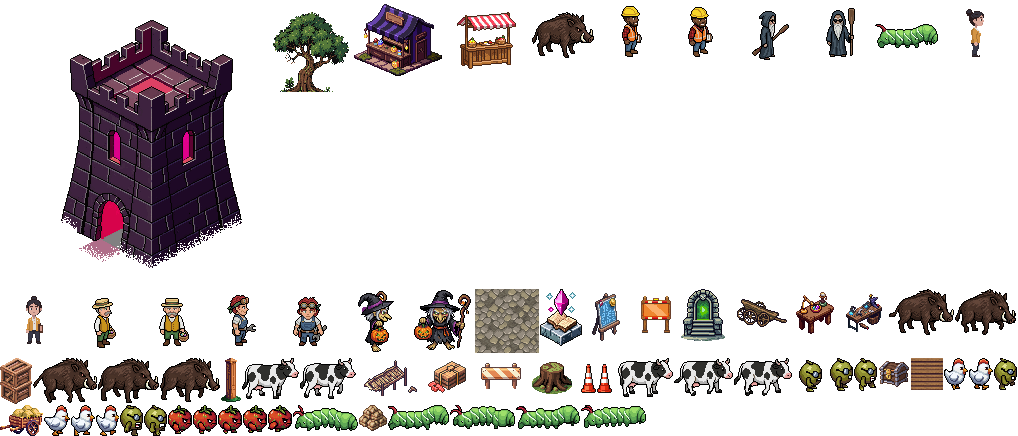
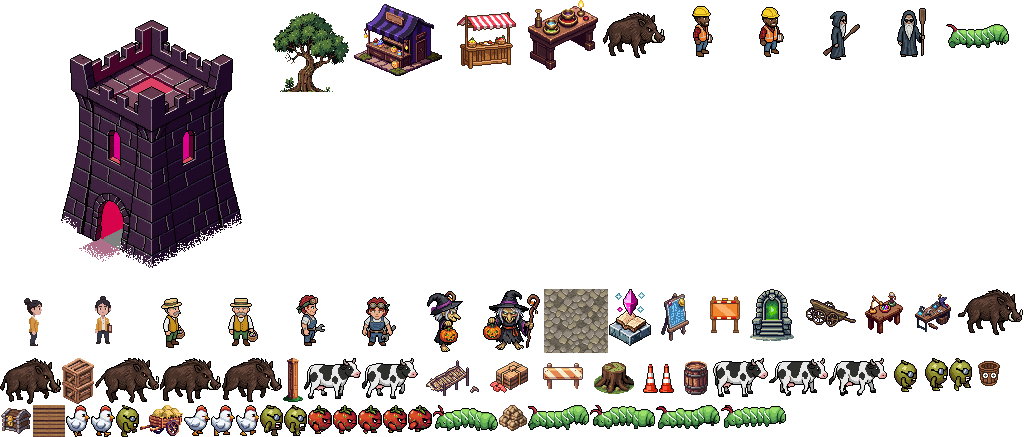
EastScape rules 353 (to ship): Magic Bags x3, the Yard lived in, lamp posts light at night, the Wild Bench's art, the gem bag's guide
- Magic Bags hold three times as much (300..7,500; the Shroud Satchel 3,000), matching the quivers.
- The Yard: a second round of barrels, crates, sacks, a quench bucket and a handcart in both courts, and two
  chickens in the south court. o_barrel and o_bucket join the Yard's art list: they were only in the cellar's
  and the closed areas', so every barrel in the courts had been drawn as nothing.
- Night: lamp posts cast a warm pool whenever the Yard is dark (the Long Night keeps it dark all event).
- The Wild Bench gets its picture (PixelLab 94fbfd64); the Wilderness sheet's budget is 135.
- Wiki: the 2026-09-29 Updates entry, and "The gem bag and the Gem Sorter" guide, hidden while HOLD.gems.
- While HOLD.gems, the 21 new gems are held items and the Mining gems keep their own words.
- Tests follow the tripled quivers and satchel, the Cards tab, and Nestor on the river's bank.
- eastscape-sfx.js: commits the archery/magic sounds that went live on 2026-09-25/26 and were never committed here.
VERSION 353, shared ?v=384, wiki 211.

diff --git a/v3/assets/js/eastscape-shared.js b/v3/assets/js/eastscape-shared.js
@@ -13,7 +13,7 @@
    ============================================================ */
 
 // bump with every change to this file: the server says which version it runs, and a page on another version reloads
-export const VERSION = 352;   /* (2026-09-28) run reports, the King's report, eggs 1/1500; the order and the 2X survive a restart */
+export const VERSION = 353;   /* (2026-09-28) run reports, the King's report, eggs 1/1500; the order and the 2X survive a restart */
 // Maps are 44 x 26 tiles (twice the old 22 x 13 each way, 2026-09-19). The screen shows a 22 x 13 window that follows
 // you (ZOOM in the page), so characters look the size they always did and there's four times the room.
 export const COLS = 44, ROWS = 26;
@@ -2581,6 +2581,17 @@ Object.assign(SCENES, {
       dress("crates", 41, 17, "Crates, stacked by the cart."); dress("barrel", 42, 15, "A barrel, going soft in the rain.");
       dress("handcart", 34, 8, "A handcart, parked."); dress("crate", 41, 8, "A crate. Somebody sat on it.");
       dress("barrel", 33, 12, "A barrel by the stairs."); dress("sacks", 40, 12, "Sacks, dumped and forgotten.");
+      /* (2026-09-29, the owner: "some barrels in the south and north court, maybe boxes, etc. items that make it feel more lived in")
+         A second round, against the rails and in the corners, never in front of a station: the north court's quench bucket sits
+         between the furnace and the anvil (both still reachable from the row below), the Tower's gate column (40-41) stays open,
+         and the south court's middle is left for the two chickens that scratch about in it (mobs, below). */
+      dress("barrel", 30, 7, "A barrel of charcoal."); dress("bucket", 36, 6, "The quench bucket. The water's gone black.");
+      dress("crates", 41, 10, "Crates of arrow shafts."); dress("barrel", 39, 11, "A barrel. Empty, by the sound.");
+      dress("crate", 30, 11, "A crate of scrap iron.");
+      /* (the treeline's canopy hangs over row 22 and column 42, so these stay above and inside it, where they can be seen) */
+      dress("crates", 32, 22, "Crates, waiting for the ferry."); dress("sacks", 33, 21, "Sacks of feed. The chickens know.");
+      dress("bucket", 33, 19, "A rain bucket, full to the brim."); dress("handcart", 40, 19, "A handcart with a wheel off.");
+      dress("barrel", 41, 20, "A barrel. It's been tapped."); dress("barrel", 41, 21, "A barrel. It hasn't, yet.");
       railing(upTo(29, 42).map((x) => [x, 23]), "h");   /* (2026-09-29) at the treeline: y19 until today */
       railing(upTo(30, 42).filter((x) => x !== 40 && x !== 41).map((x) => [x, 5]), "h");        // the north court's top rail, moved up from y7 with the court; (2026-09-25) open at 40-41, the Tower's gate
       railing(upTo(14, 22).map((y) => [29, y]), "v");   /* (2026-09-29) along the river's bank */
@@ -2660,7 +2671,11 @@ Object.assign(SCENES, {
       ["cow", 14, 6], ["cow", 11, 10], ["cow", 3, 2], ["cow", 13, 19], ["cow", 10, 16],
       ["rotten", 18, 4], ["rotten", 24, 6], ["rotten", 19, 8], ["rotten", 24, 9], ["olive", 16, 4], ["olive", 17, 10], ["olive", 20, 10],
       ["hornworm", 12, 5], ["hornworm", 15, 8], ["hornworm", 10, 9], ["hornworm", 11, 17],
-      ["boar", 5, 5], ["boar", 8, 17], ["boar", 4, 19], ["boar", 11, 21], ["boar", 6, 22]],
+      ["boar", 5, 5], ["boar", 8, 17], ["boar", 4, 19], ["boar", 11, 21], ["boar", 6, 22],
+      /* (2026-09-29, the owner: "add a mob or two in the new version of the yard in the court") two chickens loose in the south court,
+         at its empty south end: a mob wanders 3 across and 2 down from home, so they stay between the stalls and the railing and never
+         reach the road on row 14. At the END of the list, so every other monster keeps its id. */
+      ["chicken", 36, 20], ["chicken", 39, 21]],
     npcs: [   // (v108: Livia and Charon came over from the Forum, which is closed. Brutus sold gear here for a few hours on 2026-09-20; it is behind the Prize Counter now)
       { name: "Livia the Broker", art: "livia", x: 31, y: 16, still: true, quests: ["copperbell", "wheatrun", "emeraldedge"], opens: "exchange", reach: 2, hair: "#2a1a10", shirt: "#c89a2a", pants: "#3a2a1a", lines: ["Buying? Selling? Use the stall. I take 1%.", "It keeps selling while you sleep."] },
       { name: "Charon the Ferryman", art: "charon", x: 39, y: 16, still: true, quests: ["sardines", "ferry"], opens: "ferry", hair: "#e8e8e8", shirt: "#3a3a5a", pants: "#2a2a3a", lines: ["Islands. Everyone gets one. Nobody knows who's paying for them.", "The river's closed, so now it's a cart. Don't ask how a cart gets to an island. I don't.", "Plant something before you go back in there and lose your shirt. It grows while you're away.", "Wheat, ten minutes. Tomatoes, twenty. Both sell. Both cook."] }],
@@ -6198,7 +6213,7 @@ export const MAGIC = {
   arc: { share: 0.5 },                               // STORM: half the hit jumps to one other monster beside the target
   pierce: 0.3,                                       // VOID: ignores 30% of the target's defence
   sunHeal: 0.15,                                     // SUN: you heal 15% of the damage you deal
-  bagLvl: [1, 30, 50, 70, 90], bagCap: [100, 250, 500, 1000, 2500],
+  bagLvl: [1, 30, 50, 70, 90], bagCap: [300, 750, 1500, 3000, 7500],   // (2026-09-29, the owner: "increase the size of the magic bags to match archery") three times what they were, as the quivers went the same day
   tierAt: [70, 90],                                  // utility page tiers: I below Wizardry 70, II from 70, III from 90 (2026-09-26, the owner: the pages start at Wizardry 50 and run to 99, so the tiers moved up with them)
 };
 /* the elements. `base` is the Magic level of its first page and the Wizardry level to print it; Blast is +20, Surge +40 */
@@ -7576,7 +7591,7 @@ export const eventSourcesOf = (k) => {
 ITEMS.gallows_bow = { name: "Gallows Bow", short: "Bow", icon: "\u{1F3F9}", slot: "weapon", acc: 17, str: 9, launcher: { range: 6, ammo: "arrow" }, tier: "hallowed", forgeWith: ["candycorn", 400], event: true, fx: { tix: 0.06, rare: 0.10 }, req: { skill: "archery", lvl: 50 }, ex: "Cut from the gallows tree. One chop in ten thousand brings it down, during the Long Night only. Kills pay 6% more and rare drops come 10% easier." };
 ITEMS.lantern_quiver = { name: "Lantern Quiver", short: "Quiver", icon: "\u{1F383}", slot: "shield", pouch: { ammo: "arrow", cap: 1200 }, tier: "hallowed",   /* (2026-09-29) 400, tripled with the rest */ forgeWith: ["candycorn", 400], event: true, fx: { ammo: 0.25 }, req: { skill: "archery", lvl: 50 }, ex: "A carved pumpkin with a strap. One arrow in four flies back into it: a quarter of your shots spend nothing. The King drops it; Hexa sells it." };
 ITEMS.skull_wand = { name: "Skull Wand", short: "Wand", icon: "\u{1F480}", slot: "weapon", acc: 20, str: 8, launcher: { range: 5, ammo: "page", style: "magic" }, tier: "hallowed", forgeWith: ["candycorn", 400], event: true, fx: { leech: 0.10 }, req: { skill: "magic", lvl: 50 }, ex: "Somebody's, once. A tenth of every spell's damage comes back to you as health. The King drops it; Hexa sells it." };
-ITEMS.bag_shroud = { name: "Shroud Satchel", short: "Satchel", icon: "\u{1F45D}", slot: "shield", pouch: { ammo: "page", cap: 1000 },   /* (2026-09-27, the owner: "a noticeable increase in spells held") twice a level-50 bag: the Starweave's 1,000, twenty levels early */ tier: "hallowed", forgeWith: ["candycorn", 400], event: true, fx: { ammo: 0.25 }, req: { skill: "magic", lvl: 50 }, ex: "Sewn from a burial shroud, and deeper than it looks: it holds 1,000 pages, twice any other bag at its level. A quarter of your casts spend no page. The King drops it; Hexa sells it." };
+ITEMS.bag_shroud = { name: "Shroud Satchel", short: "Satchel", icon: "\u{1F45D}", slot: "shield", pouch: { ammo: "page", cap: 3000 },   /* (2026-09-27, the owner: "a noticeable increase in spells held") twice a level-50 bag: the Starweave's 3,000, twenty levels early (tripled 2026-09-29 with the rest) */ tier: "hallowed", forgeWith: ["candycorn", 400], event: true, fx: { ammo: 0.25 }, req: { skill: "magic", lvl: 50 }, ex: "Sewn from a burial shroud, and deeper than it looks: it holds 3,000 pages, twice any other bag at its level. A quarter of your casts spend no page. The King drops it; Hexa sells it." };
 ITEMS.drowned_boots = { name: "Drowned Boots", short: "Boots", icon: "\u{1F462}", slot: "boots", def: 6, tier: "hallowed", forgeWith: ["candycorn", 400], event: true, fx: { speed: 0.08, tix: 0.03 }, req: { skill: "melee", lvl: 50 }, ex: "They came up on a line. One cast in ten thousand, during the Long Night only. You move, swing and fish 8% faster, and kills pay 3% more." };
 ITEMS.coffin_ring = { name: "Coffin Ring", short: "Ring", icon: "\u{1F48D}", slot: "ring", acc: 8, str: 8, def: 8, tier: "hallowed", forgeWith: ["candycorn", 400], event: true, fx: { double: 0.10 }, req: { skill: "hp", lvl: 50 }, ex: "Coffin iron, with a coffin on it. One swing in ten thousand at any rock turns it up, during the Long Night only. One dig, cut or catch in ten comes up double." };
 /* the three legendaries: level 90, nova-grade numbers, one effect each that nothing else in the game has */
@@ -8831,9 +8846,13 @@ export const GEM_BANDS = [["Perfect", 10, 10], ["Brilliant", 7, 9], ["Fine", 4, 
 export const gemBand = (r) => GEM_BANDS.find(([, lo, hi]) => r >= lo && r <= hi)?.[0] || "Rough";
 /* the gems as items. Ruby, sapphire, topaz and opal already exist (mining finds them, wands and bags use them); the rest are new */
 for (const g of GEMSET.list) {
+  /* (2026-09-29) WHILE HOLD.gems IS ON the new stones are held (off the wiki, like any held item) and the four Mining gems keep their own
+     words: a live description must not send anybody to a Sorter that is not standing there. */
+  const isNew = !ITEMS[g.k];
   const it = (ITEMS[g.k] ||= { name: g.k === "tigerseye" ? "Tiger's eye" : g.k[0].toUpperCase() + g.k.slice(1), icon: "\u{1F48E}" });
+  if (HOLD.gems) { if (isNew) it.held = true; continue; }
   it.gem = g.k;
-  it.ex = `${it.ex ? it.ex.replace(/\s*Take it to the Gem Sorter.*$/, "") + " " : ""}Take it to the Gem Sorter in the Yard: it rolls a bonus from ${GEMSET.roll[0]}% to +${GEMSET.roll[1]}% (${g.does}), and then it goes on the ${g.where === "gear" ? "Combat" : "Skilling"} side of your gem bag.`;
+  it.ex =`${it.ex ? it.ex.replace(/\s*Take it to the Gem Sorter.*$/, "") + " " : ""}Take it to the Gem Sorter in the Yard: it rolls a bonus from ${GEMSET.roll[0]}% to +${GEMSET.roll[1]}% (${g.does}), and then it goes on the ${g.where === "gear" ? "Combat" : "Skilling"} side of your gem bag.`;
 }
 /* THE SORTER IS A FIXTURE in the Yard's north court, on the crafting side of the river (SCENES.workyard), whenever HOLD.gems is off. */
 /* (2026-09-28, the owner: "replace jewelcrafting") JEWELCRAFTING IS RETIRED: the Sorter is what gems are for now. Held everywhere, dev

diff --git a/eastscape.html b/eastscape.html
@@ -15,7 +15,7 @@
    Jewelcrafting) so they can be worked on. The rules read this flag when they load; the game server needs the same flag, which only the
    local start command sets (wrangler dev --define). On any other host this does nothing. */
 if (/^(localhost|127\.0\.0\.1)$/.test(location.hostname) && new URLSearchParams(location.search).get("open") === "1") globalThis.__ES_OPEN_ALL = true;</script>
-<link rel="modulepreload" href="/v3/assets/js/eastscape-shared.js?v=381">
+<link rel="modulepreload" href="/v3/assets/js/eastscape-shared.js?v=384">
 <link rel="modulepreload" href="/v3/assets/js/eastscape-sfx.js?v=17">
 <link rel="preconnect" href="https://play.eastcoin.vip">
 <!-- EastScape: the page only draws. Everything that happens is decided by the game server
@@ -1951,7 +1951,7 @@ b.who{cursor:pointer;text-decoration:underline dotted rgba(42,32,22,.45);text-un
   </aside>
 </main>
 <script type="module">
-import * as G from "/v3/assets/js/eastscape-shared.js?v=381";
+import * as G from "/v3/assets/js/eastscape-shared.js?v=384";
 // the wiki's words (guides, the update log) are 13 KB nobody needs until they open the wiki: fetched on first open
 let WK = { GUIDES: [], UPDATES: [{ date: "", title: "Loading…", items: [] }], SKILL_GUIDE: {}, stub: true };
 /* (2026-09-25) THE WIKI PULLS THE CLOSED AREAS' RULES IN WITH IT. The Crypt, the Pyramid and the Tower merge
@@ -1960,7 +1960,7 @@ let WK = { GUIDES: [], UPDATES: [{ date: "", title: "Loading…", items: [] }], 
    A reference book that is only correct once you have already been everywhere is not much of a reference.
    Failures are swallowed: an unreachable dungeon file should cost the reader a line, not the whole wiki. */
 const loadWiki = () => (loadWiki.p ||= Promise.all([
-  import("/v3/assets/js/eastscape-wiki.js?v=210").then((m) => { WK = m; }),
+  import("/v3/assets/js/eastscape-wiki.js?v=211").then((m) => { WK = m; }),
   cryptRules().catch(() => {}), pyramidRules().catch(() => {}), towerRules().catch(() => {}), countRules().catch(() => {}),
 ]).then(() => {}));
 import * as SFX from "/v3/assets/js/eastscape-sfx.js?v=17";
@@ -2663,7 +2663,7 @@ function registerArt(k, im) {   // `im` is a loaded Image, or a canvas the page 
    fetches the sheet ONCE, cuts every picture in it into its own small canvas and registers them all, so the rest of the page
    never knows. A picture in no sheet, or whose sheet won't load, is fetched by itself exactly as before (loadOne), so new art
    works before it is packed. PACKS_V is packs.json's ?v= and is bumped by the pack tool, never by hand. */
-const PACKS_V = 138;
+const PACKS_V = 139;
 const PACK_DIR = "/v3/assets/img/glad/packs/", packOf = new Map(), packJobs = new Map(); let PACKS = null;
 const packsReady = fetch(`${PACK_DIR}packs.json?v=${PACKS_V}`).then((r) => (r.ok ? r.json() : null)).then((j) => { if (!j || typeof j !== "object") return; PACKS = j; for (const [name, p] of Object.entries(j)) for (const k of Object.keys(p.keys || {})) if (!packOf.has(k)) packOf.set(k, name); }).catch(() => { /* no sheets: every picture comes on its own */ });
 const loadPack = (name) => packJobs.get(name) || packJobs.set(name, new Promise((res) => {
@@ -2738,6 +2738,9 @@ const AREA_ART = {
        from 154 to 162. t_brick stays core, because the islands are paved too. o_crate and o_barrel are the ones
        that already existed — the market reuses them rather than drawing its own. */
     "o_fencepost", "o_crates", "o_sacks", "o_handcart",
+    /* (2026-09-29) and the barrel and the bucket, which went into the cellar's list (and the closed areas') and so never loaded in the
+       Yard at all: its barrels had been drawn as nothing since. An area's sheet is whole, so naming them here too costs one copy each. */
+    "o_barrel", "o_bucket",
     /* (v114/v115) the walk cycles and idle breaths of the six that live here: loaded with the Yard, not at login */
     ...["chicken", "cow", "rotten", "olive", "hornworm", "boar"].flatMap((k) => [...[1, 2, 3, 4].map((i) => `${k}_w${i}`), `${k}_i2`])],   /* (v108: Charon, his cart and the Crypt's stairs came over from the Forum) */   // (monsters and a pond in every scene since 2026-09-20: the rocks', the trees' and the stations' pictures are no longer asked for out here)
   /* v68: the six bands. The Mire wears the Gloam's ground, the Thunderhead wears Cloudreach's; each list is that scene's monsters and nothing it doesn't draw */
@@ -4656,6 +4659,13 @@ function frame() {
     for (const o of Z.objs) if (o.t === "jack" || o.t === "ghostlantern") {
       const cx = o.x * T + T / 2, cy = o.y * T + T / 2, r = o.t === "jack" ? T * 1.7 : T * 1.4, c = o.t === "jack" ? "255,150,40" : "120,255,220";
       const gr = lc.createRadialGradient(cx, cy, 1, cx, cy, r); gr.addColorStop(0, `rgba(${c},${night ? 0.38 : 0.16})`); gr.addColorStop(1, `rgba(${c},0)`);
+      lc.fillStyle = gr; lc.fillRect(cx - r, cy - r, r * 2, r * 2);
+    }
+    /* (2026-09-29, the owner: "make sure night mode ... is still enabled in the yard") and the lamp posts do what their hover says, "it
+       comes on when the light goes": a warm pool from the lamp head, which sits most of a tile above the post's foot. Dark only. */
+    if (night) for (const o of Z.objs) if (o.t === "lamppost") {
+      const cx = o.x * T + T / 2, cy = o.y * T - T * 0.35, r = T * 2.1;
+      const gr = lc.createRadialGradient(cx, cy, 1, cx, cy, r); gr.addColorStop(0, "rgba(255,214,130,.34)"); gr.addColorStop(0.45, "rgba(255,190,100,.12)"); gr.addColorStop(1, "rgba(255,190,100,0)");
       lc.fillStyle = gr; lc.fillRect(cx - r, cy - r, r * 2, r * 2);
     }
   }
@@ -6793,12 +6803,12 @@ const mico = (k, px = 26) => `<img class="mico" style="height:${px}px" src="${AR
    and Fungiculture guides went live without their g_ icons, the Guides list requested g_breeding.png?v=1 and the edge now holds the
    site's HTML under that URL for a year. A picture added after its page shipped starts at 2 here. */
 const UI_V = { g_breeding: 2, g_fungiculture: 2 };
-const uico = (k) => { if (k === "g_jewelcrafting") k = "g_gems";   /* (2026-09-28) the skill has no guide picture of its own: it borrows the gems */
+const uico = (k) => { if (k === "g_jewelcrafting" || k === "g_gembag") k = "g_gems";   /* (2026-09-28) the skill has no guide picture of its own: it borrows the gems */
   return `<img class="ico wico" src="${UIA}${k}.png?v=${UI_V[k] || 1}" alt="" loading="lazy" decoding="async">`; };
 const nico = (name) => { const a = WIKI.npcs[name]?.art || NPC_ART[name]; return a ? `<img class="ico nico" src="${ART}${a}_south.png?v=${ART_V}" alt="" loading="lazy" decoding="async">` : "🧑"; };
 function wikiPages() {
   const pages = [{ route: "home", title: "Home", icon: uico("g_home"), group: "" }, { route: "updates", title: "Updates", icon: uico("g_updates"), group: "" }];
-  for (const g of WK.GUIDES) { if (g.id === "thieving" && !G.THIEF.live) continue; if (g.id === "longnight" && !G.hwOn()) continue; if (g.id === "jewelcrafting" && G.HOLD.jewel) continue;   /* (2026-09-27) the Long Night's guide appears with the season */ pages.push({ route: `guides/${g.id}`, title: g.title, icon: uico(`g_${g.id}`), group: "Guides", cat: g.cat || "More" }); }   /* (2026-09-23) the Thieving guide rides THIEF.live with the rest of the skill; it is written and ready, it just must not be readable before the guild opens */
+  for (const g of WK.GUIDES) { if (g.id === "thieving" && !G.THIEF.live) continue; if (g.id === "longnight" && !G.hwOn()) continue; if (g.id === "jewelcrafting" && G.HOLD.jewel) continue; if (g.id === "gembag" && G.HOLD.gems) continue;   /* (2026-09-29) the gem bag's guide opens with gems */   /* (2026-09-27) the Long Night's guide appears with the season */ pages.push({ route: `guides/${g.id}`, title: g.title, icon: uico(`g_${g.id}`), group: "Guides", cat: g.cat || "More" }); }   /* (2026-09-23) the Thieving guide rides THIEF.live with the rest of the skill; it is written and ready, it just must not be readable before the guild opens */
   /* (2026-09-22) PETS ARE THEIR OWN CATEGORY, not a line in Guides: five things with stats, a drop rate and a
      picture each is a category, and the guide alone made them look like a footnote. Built from G.PETS, so a sixth
      pet appears here without anyone remembering to add it. */

diff --git a/v3/assets/js/eastscape-wiki.js b/v3/assets/js/eastscape-wiki.js
@@ -882,6 +882,30 @@ export const GUIDES = [
         <p><b>More gems:</b> the <b>${H.esc(G.CHARMS.stonesense.name)}</b> page (Wizardry ${G.CHARMS.stonesense.lvl}) makes them turn up ${G.CHARMS.stonesense.vals.join("/")}% more often by tier${boost.length ? `, and so does ${boost.join(" or ")} following you` : ""}. A rock gives the same chance on every ore, so a vein that never runs dry is the best place to stand.</p>
         ${G.GEMS.map(gem).join("")}`;
     } },
+  /* (2026-09-29, the owner: "wiki needs updates for new gems and gem sorter etc as well") THE GEM BAG AND THE SORTER. Every number is read
+     from GEMSET, gemOdds and GEM_BANDS, so a retune of the odds or the prices cannot leave this page behind. The page hides it while
+     HOLD.gems is on (wikiPages in eastscape.html), like the other held systems. */
+  { id: "gembag", title: "The gem bag and the Gem Sorter", icon: "\u{1F48E}", cat: "Going further",
+    body: (G, H) => {
+      const S = G.GEMSET, nm = (k) => H.wl(`items/${k}`, `${H.ico(k)} ${H.esc(H.ITEMS[k]?.name || k)}`), tix = (n) => `${n.toLocaleString()} tickets`;
+      const odds = (lo, hi) => { let p = 0; for (let r = lo; r <= hi; r++) p += G.gemOdds(r); p *= 100; return p < 1 ? `${p.toFixed(1)}%` : `${Math.round(p)}%`; };
+      const sgn = (r) => `${r > 0 ? "+" : ""}${r}%`, side = (w) => S.list.filter((g) => g.where === w);
+      const row = (g) => `<tr><td>${nm(g.k)}</td><td>${H.esc(g.does)}</td><td>${g.skill ? H.esc(H.SKILLS?.[g.skill]?.name || g.skill) : "monsters of level " + S.dropLvl + "+"}</td></tr>`;
+      return `<p><b>Gems are small permanent bonuses you carry with you.</b> Find one, have the Gem Sorter roll it a bonus, and put it in your <b>gem bag</b>, which works wherever you are. Open the bag from the <b>Gems</b> button on your inventory; it pops open beside it.</p>
+        <h3>The gem bag</h3>
+        <p>Two sides of ${S.bag.max} settings each: <b>Combat</b> gems on one side, <b>Skilling</b> gems on the other, and a gem only fits its own side. ${S.bag.start === 1 ? "One setting on each side is open" : `${S.bag.start} settings on each side are open`} from the start; the rest open for tickets, each side on its own: ${S.bag.price.map(tix).join(", then ")}.</p>
+        <p>Only a <b>sorted</b> gem goes in. Taking one out gives it back <b>unsorted</b>, so changing your mind costs a roll. <b>Only the best ${S.perType} of any one gem count</b>: a third ruby adds nothing, so fill the bag with different stones.</p>
+        <h3>The Gem Sorter</h3>
+        <p>A jeweller's bench in the Yard's north court. Stand by it and it will <b>sort</b> a gem (roll its bonus) for <b>${tix(S.cost)}</b> a roll, <b>re-roll</b> a sorted one for the same, or <b>buy any gem back</b> for ${tix(S.sell)}, whatever its roll. A roll lands between <b>${sgn(S.roll[0])}</b> and <b>${sgn(S.roll[1])}</b>, and the higher it is, the rarer it is. A negative roll is exactly that much worse.</p>
+        <table class="tbl"><tr><th>Band</th><th>Roll</th><th>Chance</th></tr>${G.GEM_BANDS.map(([n, lo, hi]) => `<tr><td><b>${n}</b></td><td>${lo === hi ? sgn(lo) : `${sgn(lo)} to ${sgn(hi)}`}</td><td>${odds(lo, hi)}</td></tr>`).join("")}</table>
+        <p>A perfect ${sgn(S.roll[1])} is about <b>1 in ${Math.round(1 / G.gemOdds(S.roll[1]))}</b> rolls, and the room hears about it when somebody lands one.</p>
+        <h3>Finding gems</h3>
+        <p>From level <b>${S.dropLvl}</b> in a skill, every action has a 1 in ${Math.round(1 / S.drop).toLocaleString()} chance of turning up that skill's gem. Monsters of level ${S.dropLvl} or more drop a combat gem now and then, and a boss more often. Every gem found is unsorted; they trade and bank like anything else, and a sorted one keeps its roll when it changes hands.</p>
+        <h3>Combat gems</h3>
+        <table class="tbl"><tr><th>Gem</th><th>Does</th><th>From</th></tr>${side("gear").map(row).join("")}</table>
+        <h3>Skilling gems</h3>
+        <table class="tbl"><tr><th>Gem</th><th>Does</th><th>From</th></tr>${side("case").map(row).join("")}</table>`;
+    } },
   { id: "fletching", title: "Fletching and archery", icon: "\u{1F3F9}", cat: "Skills",
     body: (G, H) => {
       const rs = Object.values(G.RECIPES).filter((r) => r.skill === "fletching").sort((a, b) => a.lvl - b.lvl);
@@ -1056,6 +1080,20 @@ export const GUIDES = [
 ];
 
 export const UPDATES = [
+  {
+    date: "2026-09-29", title: "A river through the Yard, quivers and Magic Bags three times the size, and a round of fixes from the bug board",
+    items: [
+      "THE YARD, REDONE: a river runs down its middle. East of it are the two courts with every workbench, Livia, Charon and the road to the casino; west of it, every monster, Bronny and Sal. The road crosses on a plank bridge and is cobbled all the way west to the Carnival and north to the Gloam, with lamp posts along it that light up after dark. The courts are fuller too: barrels, crates, sacks, a quench bucket by the anvil, and two chickens loose in the south court.",
+      "QUIVERS AND MAGIC BAGS HOLD THREE TIMES AS MUCH: a rough quiver is 300 arrows and a Bogwood one 3,000; Magic Bags run from 300 to 7,500 pages, and the Shroud Satchel holds 3,000. Loading takes every stack of that arrow or page in your bag in one click.",
+      "THE WILD BENCH: fletching's own Nexus, in the Wilderness grove against the west rock. It fletches everything, and half as much again.",
+      "THE NEXUS, TONED DOWN: it prints one and a half times the pages (was twice) for a quarter more xp (was half as much again).",
+      "HOW MANY TO MAKE: every crafting window and the anvil ask how many first (1, 5, 10, 25 or All), and stop when that many are done.",
+      "BOM BUYS BOWS, QUIVERS, WANDS AND MAGIC BAGS now, which he used to turn away.",
+      "THE BANK takes 1, 5, 10, 25 or 99 at a time, and your stacks stay where they are while you work instead of shuffling.",
+      "OTHER PEOPLE'S GEAR: on someone's profile, hover a piece they are wearing to see it, and right-click it for its wiki page.",
+      "FIXES: you arrive where you meant to (the nearest open tile, never inside a wall), both ways across the Far Shore bridge; a refresh on your own island keeps you on it; a Master's seal +4 stays +4 through a save; Finished offers stays open; the Gallows oak no longer stands on the onyx rock; the 2X banner sits below the skill ring; and planting a mushroom bed pays Fungiculture xp like a seed pays Farming. Thanks to everyone who used the bug button.",
+    ],
+  },
   {
     date: "2026-09-28", title: "Party meter, run reports, and a report for the Pumpkin King",
     items: [

diff --git a/v3/assets/js/eastscape-sfx.js b/v3/assets/js/eastscape-sfx.js
@@ -92,6 +92,37 @@ export const SOUNDS = {
   swing:      { vol: 0.4, files: takes("swing", 3), layers: [{ w: "noise", a: 0.01, d: 0.12, v: 0.3, lp: 5000, hp: 1400 }] },
   hit:        { vol: 0.55, files: takes("hit", 4), layers: [{ w: "noise", d: 0.08, v: 0.45, lp: 1800 }, tone(150, 0, 0.09, 0.3, "square", { f2: 60, lp: 1500 })] },
   miss:       { vol: 0.3, layers: [{ w: "noise", d: 0.05, v: 0.2, lp: 7000, hp: 3000 }] },
+  /* ARCHERY (2026-09-25). The two landings are Kenney's "Impact Sounds" (CC0, kenney.nl/assets/impact-sounds, the licence
+     file in that zip says Creative Commons Zero; no credit needed): impactSoft_medium 000/001/003/004 as arrowhit1-4,
+     impactSoft_heavy 000/002 as arrowcrit1-2, copied as they came. They were picked by measuring, not by ear: the soft
+     mediums are dull thuds that are over in about 0.1 s, short enough not to smear at a shortbow's pace; the punches peak
+     20-40 ms late and read as fists, and the wood knocks are clicks. No free CC0 bow TWANG was found (the popular ones on
+     OpenGameArt are CC-BY-SA / GPL), so the release and the miss are synthesised here, like every other sound. */
+  /* (2026-09-25, later the same day, the owner: the twang was "very annoying and repetitive"). Now four RECORDED takes: the light
+     swishes from artisticdude's CC0 "Swishes Sound Pack" (OpenGameArt), cut by tools/eastscape-sfx-import.mjs. Four takes, never the
+     same one twice running, and a wider pitch wobble than the default, because this plays on every shot. The synth is the fallback. */
+  bow_release: { vol: 0.34, jitter: 0.12, files: takes("arrowfly", 4), layers: [{ w: "noise", a: 0.02, d: 0.09, v: 0.18, lp: 7000, hp: 2600 }] },
+  arrow_hit:   { vol: 0.6, files: oggs("arrowhit", 4), layers: [{ w: "noise", d: 0.06, v: 0.4, lp: 1400 }, tone(170, 0, 0.07, 0.3, "sine", { f2: 80 })] },
+  arrow_crit:  { vol: 0.75, files: oggs("arrowcrit", 2), layers: [{ w: "noise", d: 0.12, v: 0.5, lp: 1200 }, tone(130, 0, 0.14, 0.35, "sine", { f2: 55 })] },
+  arrow_miss:  { vol: 0.3, layers: [{ w: "noise", a: 0.05, d: 0.16, v: 0.22, lp: 7000, hp: 2400 }] },
+  /* MAGIC (2026-09-26). Kenney's "Sci-fi Sounds" (CC0, kenney.nl/assets/sci-fi-sounds): laserSmall 001-003 as the cast, laserSmall_000
+     for Arcane, explosionCrunch_000 for Fire, laserRetro 000/003 for Storm, lowFrequency_explosion_001 for Void, forceField_000 for Sun and
+     forceField_004 for a buff; Frost is bart's CC0 "Ice spells" (opengameart.org/content/ice-spells), cut by eastscape-sfx-import.mjs.
+     Picked by measuring length and brightness, not by ear: the casts are 0.2-0.3 s zaps so they do not pile up at a wand's pace. */
+  /* (2026-09-26) MORE TAKES PER SPELL, so a minute of casting is not one sound on a loop. Two CC0 packs from OpenGameArt:
+     rubberduck's "80 CC0 RPG SFX" (the two plain spells -> casts, four of the seven fire spells -> Fire) and JaggedStone's
+     "Magic Spell SFX" (the two darkest -> Void, the slow shimmers -> Sun and Arcane, the longest swell -> reading a scroll).
+     Decoded, summed to mono at 22.05 kHz, trimmed, faded and peak-matched to the takes already here (the packs came in up
+     to 25 dB quieter), in the browser; the "b" in the file names keeps them apart from the first set. Frost and Storm
+     keep their own: nothing in either pack sounded like ice or lightning. */
+  spell_cast:   { vol: 0.28, jitter: 0.1, files: [...oggs("spellcast", 3), ...takes("spellcastb", 2)], layers: [tone(900, 0, 0.08, 0.2, "sine", { f2: 1600 })] },
+  spell_arcane: { vol: 0.4, files: [...oggs("spellarcane", 1), ...takes("spellarcaneb", 2)], layers: [tone(700, 0, 0.1, 0.25, "sine", { f2: 300 })] },
+  spell_fire:   { vol: 0.45, files: [...oggs("spellfire", 1), ...takes("spellfireb", 4)], layers: [{ w: "noise", d: 0.2, v: 0.4, lp: 1200 }] },
+  spell_frost:  { vol: 0.4, files: takes("spellfrost", 2), layers: [{ w: "noise", d: 0.12, v: 0.3, hp: 3000 }] },
+  spell_storm:  { vol: 0.35, jitter: 0.08, files: oggs("spellstorm", 2), layers: [tone(1400, 0, 0.1, 0.25, "square", { f2: 200 })] },
+  spell_void:   { vol: 0.5, files: [...oggs("spellvoid", 1), ...takes("spellvoidb", 2)], layers: [tone(90, 0, 0.3, 0.4, "sine", { f2: 40 })] },
+  spell_sun:    { vol: 0.4, files: [...oggs("spellsun", 1), ...takes("spellsunb", 2)], layers: [tone(660, 0, 0.3, 0.25, "tri", { f2: 990 })] },
+  spell_buff:   { vol: 0.4, files: [...oggs("spellbuff", 1), ...takes("spellbuffb", 1)], layers: [tone(520, 0, 0.25, 0.25, "tri", { f2: 1040 })] },
   hurt:       { vol: 0.45, files: takes("hurt", 3), layers: [tone(300, 0, 0.15, 0.3, "square", { f2: 120, lp: 1800 })] },
   mob_die:    { vol: 0.45, files: takes("mobdie", 1), layers: [tone(420, 0, 0.35, 0.28, "square", { f2: 60, lp: 2000 }), { w: "noise", d: 0.22, v: 0.25, lp: 1000 }] },
   die:        { vol: 0.5, layers: [tone(400, 0, 0.8, 0.3, "saw", { f2: 45, s: 0.2, lp: 1500 })] },
@@ -211,7 +242,7 @@ export function play(name, o = {}) {
     let i = Math.floor(Math.random() * list.length); if (list.length > 1 && i === lastTake.get(name)) i = (i + 1) % list.length; lastTake.set(name, i);
     const b = list[i];
     src = ac.createBufferSource(); src.buffer = b; src.loop = !!def.loop;
-    const j = o.jitter ?? (def.loop || def.steady ? 0 : 0.05);   /* (steady: the same pitch every time) */ src.playbackRate.value = (o.rate || 1) * (1 + (Math.random() * 2 - 1) * j);
+    const j = o.jitter ?? def.jitter ?? (def.loop || def.steady ? 0 : 0.05);   /* (2026-09-25) a sound may ask for its own wobble */   /* (steady: the same pitch every time) */ src.playbackRate.value = (o.rate || 1) * (1 + (Math.random() * 2 - 1) * j);
     const g = ac.createGain(); g.gain.value = (def.vol ?? 0.4) * (o.vol ?? 1);
     src.connect(g); g.connect(master); src.start();
   });
